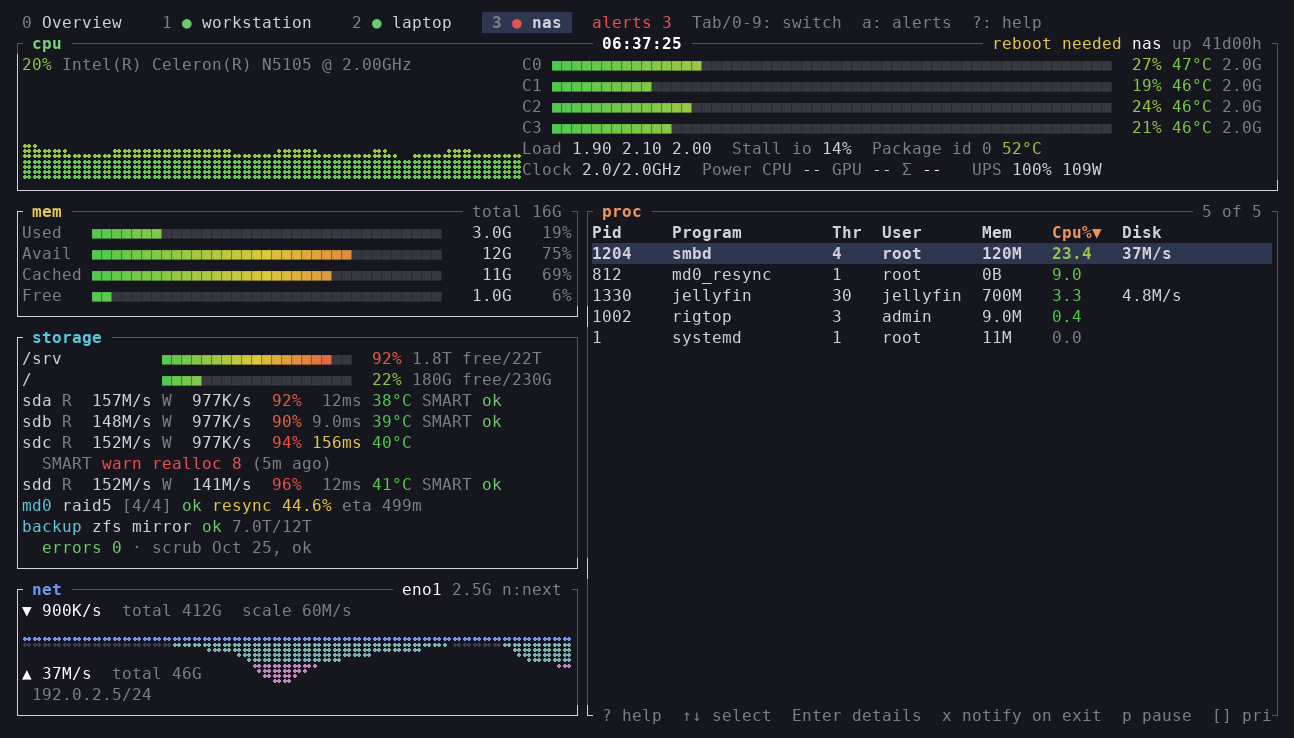
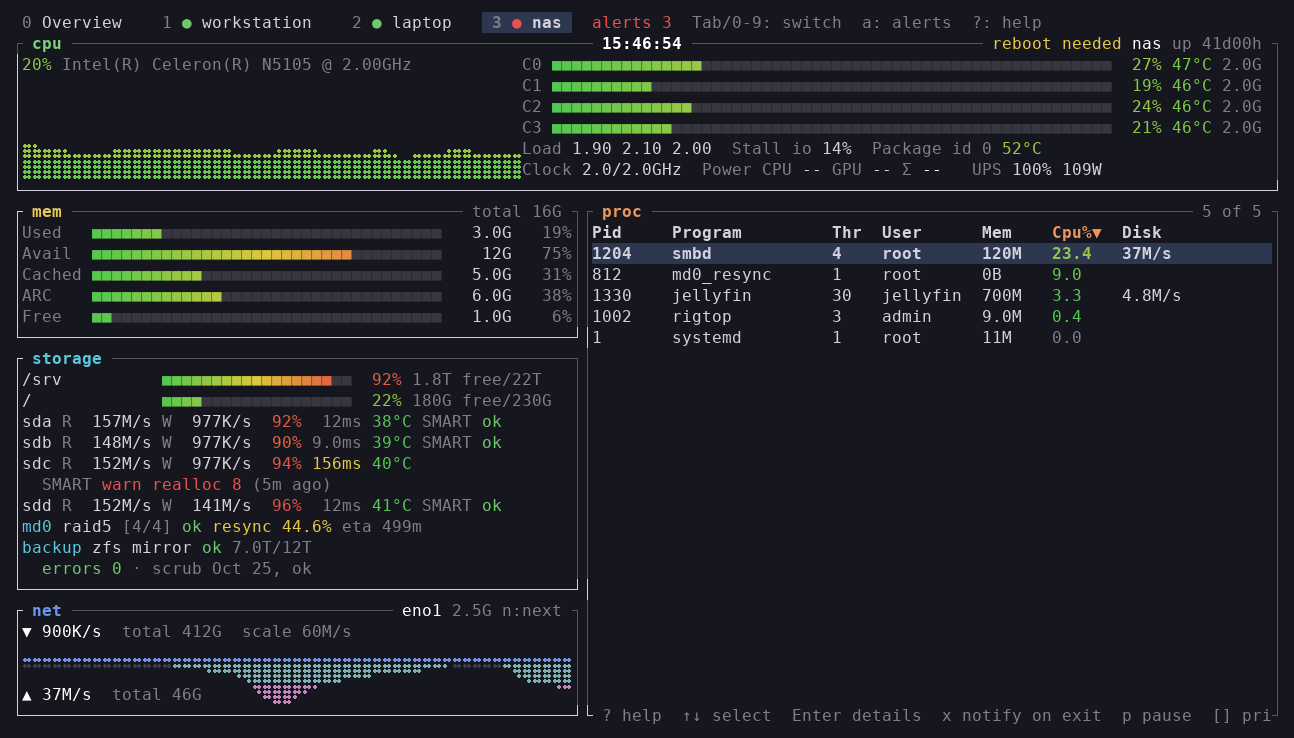
README: the NAS screenshot with its ARC

diff --git a/README.ja.md b/README.ja.md
@@ -23,7 +23,7 @@
 - CPU + GPU の消費電力の合計、ファン回転数（各系統に任意の名前を付けられる）、[Network UPS Tools](#upsnetwork-ups-tools) 経由の UPS。
 - **SSH だけで複数ホストを監視**: `rigtop --agent` が標準入出力で計測値を流すので、常駐プロセスもポート開放も不要。
 
-![NAS での rigtop の TUI: 代替処理済みセクタで SMART の警告が出たドライブ、ディスクごとの使用率と応答時間、md の RAID5 の再同期、ZFS のミラーと直近の scrub、消費電力の隣の UPS](docs/images/rigtop-tui-nas.png)
+![NAS での rigtop の TUI: 代替処理済みセクタで SMART の警告が出たドライブ、ディスクごとの使用率と応答時間、md の RAID5 の再同期、ZFS のミラーと直近の scrub、メモリ欄の ZFS の読み込みキャッシュ（ARC）、消費電力の隣の UPS](docs/images/rigtop-tui-nas.png)
 
 ## ロードマップ
 

diff --git a/README.md b/README.md
@@ -23,7 +23,7 @@ A system monitor for workstations, laptops and NAS — an alternative to btop th
 - Combined CPU + GPU power draw, fan speeds (with your own labels for fan channels), and UPSes through [Network UPS Tools](#ups-network-ups-tools).
 - **Multiple hosts over plain SSH**: `rigtop --agent` streams snapshots over stdin/stdout, so there is no daemon to run and no port to open.
 
-![rigtop TUI on a NAS: a drive flagged by SMART for reallocated sectors, each disk's busy share and request time, an md RAID5 resync, a ZFS mirror with its last scrub, and the UPS next to the power draw](docs/images/rigtop-tui-nas.png)
+![rigtop TUI on a NAS: a drive flagged by SMART for reallocated sectors, each disk's busy share and request time, an md RAID5 resync, a ZFS mirror with its last scrub, ZFS's read cache (ARC) in the memory panel, and the UPS next to the power draw](docs/images/rigtop-tui-nas.png)
 
 ## Roadmap
 
